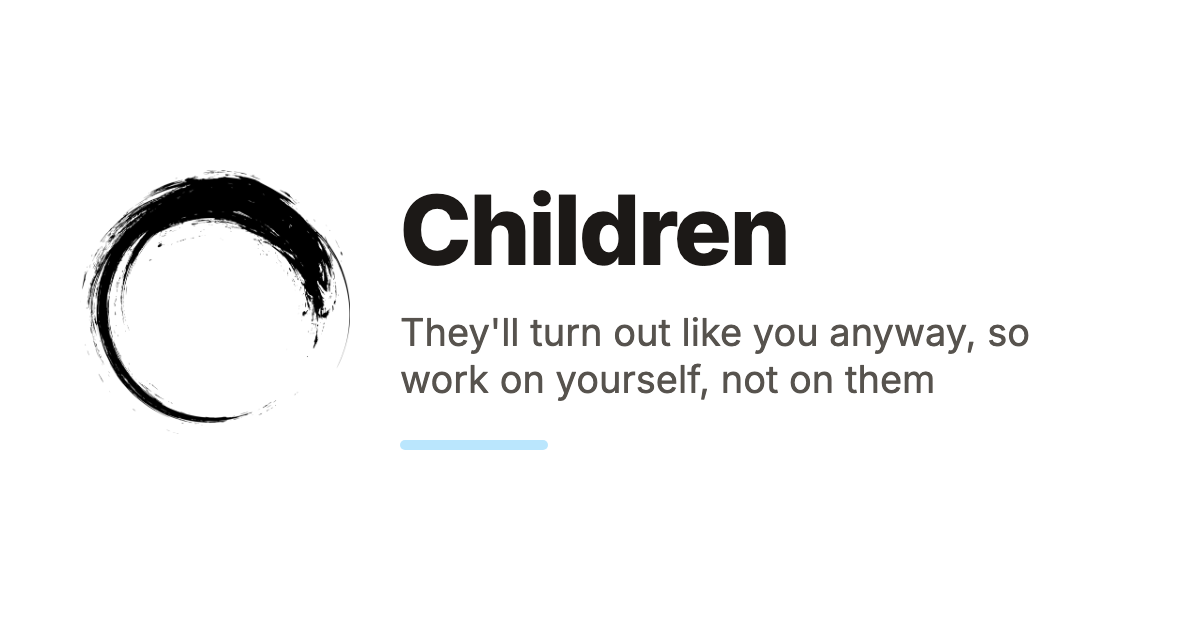
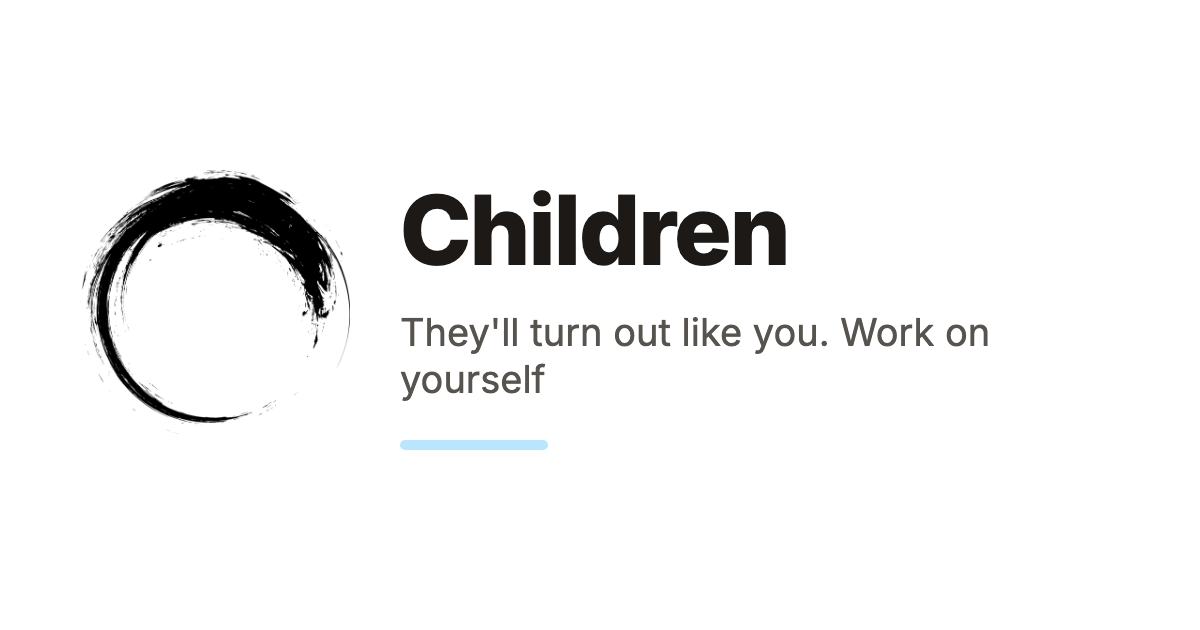
build

Changed region(s): [[0.3392, 0.5127, 0.8633, 0.6333]]

diff --git a/ru/children.html b/ru/children.html
@@ -18,8 +18,8 @@
 <title>Дети | tellothers.com</title>
 <meta property="og:title" content="Дети" />
 <meta property="og:locale" content="ru_RU" />
-<meta name="description" content="Они всё равно будут похожи на тебя — так что занимайся собой, а не ими. Дети — это маленькие мы. Тебе самому нравится, когда тебя наказывают и ругают?" />
-<meta property="og:description" content="Они всё равно будут похожи на тебя — так что занимайся собой, а не ими. Дети — это маленькие мы. Тебе самому нравится, когда тебя наказывают и ругают?" />
+<meta name="description" content="Будут похожи на тебя, занимайся собой. Дети — это маленькие мы. Тебе самому нравится, когда тебя наказывают и ругают?" />
+<meta property="og:description" content="Будут похожи на тебя, занимайся собой. Дети — это маленькие мы. Тебе самому нравится, когда тебя наказывают и ругают?" />
 <link rel="canonical" href="https://tellothers.com/ru/children" />
 <meta property="og:url" content="https://tellothers.com/ru/children" />
 <meta property="og:site_name" content="tellothers.com" />
@@ -99,7 +99,7 @@
     </h1>
 
       <p class="text-lg sm:text-xl text-stone-500 leading-snug">
-        Они всё равно будут похожи на тебя — так что занимайся собой, а не ими
+        Будут похожи на тебя, занимайся собой
       </p>
   </header>
 
@@ -149,12 +149,12 @@
   "@type": "Article",
   "name": "Дети",
   "headline": "Дети",
-  "description": "Они всё равно будут похожи на тебя — так что занимайся собой, а не ими",
+  "description": "Будут похожи на тебя, занимайся собой",
   "url": "https://tellothers.com/ru/children",
   "mainEntityOfPage": "https://tellothers.com/ru/children",
   "image": "https://tellothers.com/images/og/children.ru.png",
   "datePublished": "2026-10-05T11:16:44+07:00",
-  "dateModified": "2026-10-22T17:32:20+07:00",
+  "dateModified": "2026-10-26T15:46:44+07:00",
   "inLanguage": "ru",
   "isPartOf": {
     "@type": "WebSite",

diff --git a/children.html b/children.html
@@ -18,8 +18,8 @@
 <title>Children | tellothers.com</title>
 <meta property="og:title" content="Children" />
 <meta property="og:locale" content="en_US" />
-<meta name="description" content="They&#39;ll turn out like you anyway, so work on yourself, not on them. Kids are little versions of us. Do you like being punished and told off?" />
-<meta property="og:description" content="They&#39;ll turn out like you anyway, so work on yourself, not on them. Kids are little versions of us. Do you like being punished and told off?" />
+<meta name="description" content="They&#39;ll turn out like you. Work on yourself. Kids are little versions of us. Do you like being punished and told off?" />
+<meta property="og:description" content="They&#39;ll turn out like you. Work on yourself. Kids are little versions of us. Do you like being punished and told off?" />
 <link rel="canonical" href="https://tellothers.com/children" />
 <meta property="og:url" content="https://tellothers.com/children" />
 <meta property="og:site_name" content="tellothers.com" />
@@ -99,7 +99,7 @@
     </h1>
 
       <p class="text-lg sm:text-xl text-stone-500 leading-snug">
-        They’ll turn out like you anyway, so work on yourself, not on them
+        They’ll turn out like you. Work on yourself
       </p>
   </header>
 
@@ -149,12 +149,12 @@
   "@type": "Article",
   "name": "Children",
   "headline": "Children",
-  "description": "They'll turn out like you anyway, so work on yourself, not on them",
+  "description": "They'll turn out like you. Work on yourself",
   "url": "https://tellothers.com/children",
   "mainEntityOfPage": "https://tellothers.com/children",
   "image": "https://tellothers.com/images/og/children.en.png",
   "datePublished": "2026-10-05T11:16:44+07:00",
-  "dateModified": "2026-10-22T17:32:20+07:00",
+  "dateModified": "2026-10-26T15:46:44+07:00",
   "inLanguage": "en",
   "isPartOf": {
     "@type": "WebSite",

diff --git a/ru/index.html b/ru/index.html
@@ -25,7 +25,7 @@
 <meta property="og:site_name" content="tellothers.com" />
 <meta property="og:image" content="https://tellothers.com/images/og-ru.png" />
 <meta property="og:type" content="article" />
-<meta property="article:published_time" content="2026-10-25T17:58:22-07:00" />
+<meta property="article:published_time" content="2026-10-26T01:46:48-07:00" />
 <meta name="twitter:card" content="summary_large_image" />
 <meta property="twitter:image" content="https://tellothers.com/images/og-ru.png" />
 <meta property="twitter:title" content="Сработало? Скажи другим." />
@@ -144,7 +144,7 @@
 
     <a href="/ru/children" class="group block no-underline rounded-lg hover:bg-white p-4 transition-all duration-700 ease-out hover:shadow-lg hover:shadow-stone-900/5">
   <div class="font-sans font-bold text-stone-800 group-hover:text-stone-950 transition duration-700">Дети</div>
-    <div class="mt-1 text-sm text-stone-600 leading-snug transition duration-700">Они всё равно будут похожи на тебя — так что занимайся собой, а не ими</div>
+    <div class="mt-1 text-sm text-stone-600 leading-snug transition duration-700">Будут похожи на тебя, занимайся собой</div>
 </a>
 
 

diff --git a/index.html b/index.html
@@ -25,7 +25,7 @@
 <meta property="og:site_name" content="tellothers.com" />
 <meta property="og:image" content="https://tellothers.com/images/og-en.png" />
 <meta property="og:type" content="article" />
-<meta property="article:published_time" content="2026-10-25T17:58:22-07:00" />
+<meta property="article:published_time" content="2026-10-26T01:46:48-07:00" />
 <meta name="twitter:card" content="summary_large_image" />
 <meta property="twitter:image" content="https://tellothers.com/images/og-en.png" />
 <meta property="twitter:title" content="It worked? Tell others." />
@@ -144,7 +144,7 @@
 
     <a href="/children" class="group block no-underline rounded-lg hover:bg-white p-4 transition-all duration-700 ease-out hover:shadow-lg hover:shadow-stone-900/5">
   <div class="font-sans font-bold text-stone-800 group-hover:text-stone-950 transition duration-700">Children</div>
-    <div class="mt-1 text-sm text-stone-600 leading-snug transition duration-700">They&#39;ll turn out like you anyway, so work on yourself, not on them</div>
+    <div class="mt-1 text-sm text-stone-600 leading-snug transition duration-700">They&#39;ll turn out like you. Work on yourself</div>
 </a>
 
 

diff --git a/ru/couple.html b/ru/couple.html
@@ -155,7 +155,7 @@
       <div class="grid sm:grid-cols-2 gap-3 -mx-4">
             <a href="/ru/children" class="group block no-underline rounded-lg hover:bg-white p-4 transition-all duration-700 ease-out hover:shadow-lg hover:shadow-stone-900/5">
   <div class="font-sans font-bold text-stone-800 group-hover:text-stone-950 transition duration-700">Дети</div>
-    <div class="mt-1 text-sm text-stone-600 leading-snug transition duration-700">Они всё равно будут похожи на тебя — так что занимайся собой, а не ими</div>
+    <div class="mt-1 text-sm text-stone-600 leading-snug transition duration-700">Будут похожи на тебя, занимайся собой</div>
 </a>
 
             <a href="/ru/be-kind" class="group block no-underline rounded-lg hover:bg-white p-4 transition-all duration-700 ease-out hover:shadow-lg hover:shadow-stone-900/5">

diff --git a/couple.html b/couple.html
@@ -155,7 +155,7 @@
       <div class="grid sm:grid-cols-2 gap-3 -mx-4">
             <a href="/children" class="group block no-underline rounded-lg hover:bg-white p-4 transition-all duration-700 ease-out hover:shadow-lg hover:shadow-stone-900/5">
   <div class="font-sans font-bold text-stone-800 group-hover:text-stone-950 transition duration-700">Children</div>
-    <div class="mt-1 text-sm text-stone-600 leading-snug transition duration-700">They&#39;ll turn out like you anyway, so work on yourself, not on them</div>
+    <div class="mt-1 text-sm text-stone-600 leading-snug transition duration-700">They&#39;ll turn out like you. Work on yourself</div>
 </a>
 
             <a href="/be-kind" class="group block no-underline rounded-lg hover:bg-white p-4 transition-all duration-700 ease-out hover:shadow-lg hover:shadow-stone-900/5">

diff --git a/ru/be-bored.html b/ru/be-bored.html
@@ -176,7 +176,7 @@
 
             <a href="/ru/children" class="group block no-underline rounded-lg hover:bg-white p-4 transition-all duration-700 ease-out hover:shadow-lg hover:shadow-stone-900/5">
   <div class="font-sans font-bold text-stone-800 group-hover:text-stone-950 transition duration-700">Дети</div>
-    <div class="mt-1 text-sm text-stone-600 leading-snug transition duration-700">Они всё равно будут похожи на тебя — так что занимайся собой, а не ими</div>
+    <div class="mt-1 text-sm text-stone-600 leading-snug transition duration-700">Будут похожи на тебя, занимайся собой</div>
 </a>
 
       </div>

diff --git a/be-bored.html b/be-bored.html
@@ -176,7 +176,7 @@
 
             <a href="/children" class="group block no-underline rounded-lg hover:bg-white p-4 transition-all duration-700 ease-out hover:shadow-lg hover:shadow-stone-900/5">
   <div class="font-sans font-bold text-stone-800 group-hover:text-stone-950 transition duration-700">Children</div>
-    <div class="mt-1 text-sm text-stone-600 leading-snug transition duration-700">They&#39;ll turn out like you anyway, so work on yourself, not on them</div>
+    <div class="mt-1 text-sm text-stone-600 leading-snug transition duration-700">They&#39;ll turn out like you. Work on yourself</div>
 </a>
 
       </div>

diff --git a/404.html b/404.html
@@ -25,7 +25,7 @@
 <meta property="og:site_name" content="tellothers.com" />
 <meta property="og:image" content="https://tellothers.com/images/og-en.png" />
 <meta property="og:type" content="article" />
-<meta property="article:published_time" content="2026-10-25T17:58:22-07:00" />
+<meta property="article:published_time" content="2026-10-26T01:46:48-07:00" />
 <meta name="twitter:card" content="summary_large_image" />
 <meta property="twitter:image" content="https://tellothers.com/images/og-en.png" />
 <meta property="twitter:title" content="404" />

diff --git a/500.html b/500.html
@@ -25,7 +25,7 @@
 <meta property="og:site_name" content="tellothers.com" />
 <meta property="og:image" content="https://tellothers.com/images/og-en.png" />
 <meta property="og:type" content="article" />
-<meta property="article:published_time" content="2026-10-25T17:58:22-07:00" />
+<meta property="article:published_time" content="2026-10-26T01:46:48-07:00" />
 <meta name="twitter:card" content="summary_large_image" />
 <meta property="twitter:image" content="https://tellothers.com/images/og-en.png" />
 <meta property="twitter:title" content="500" />
